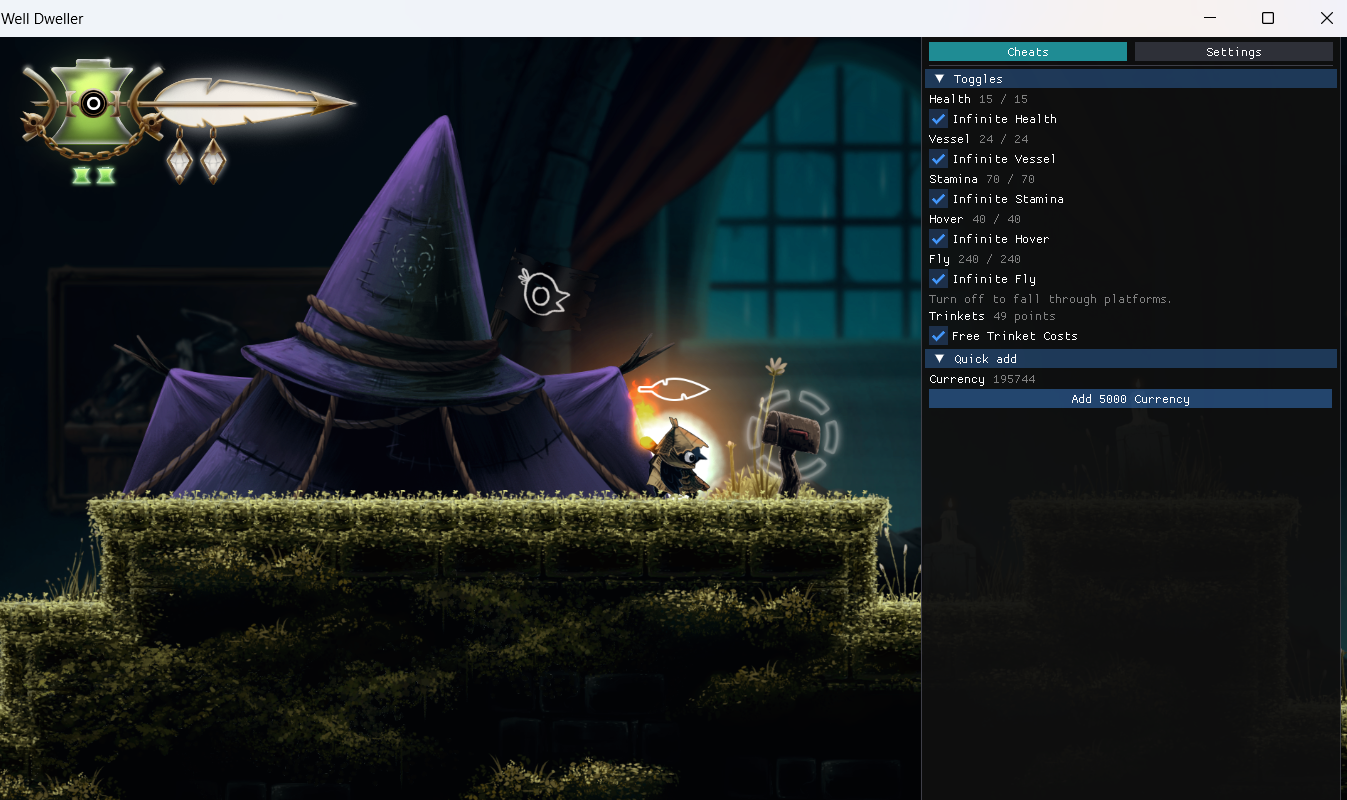
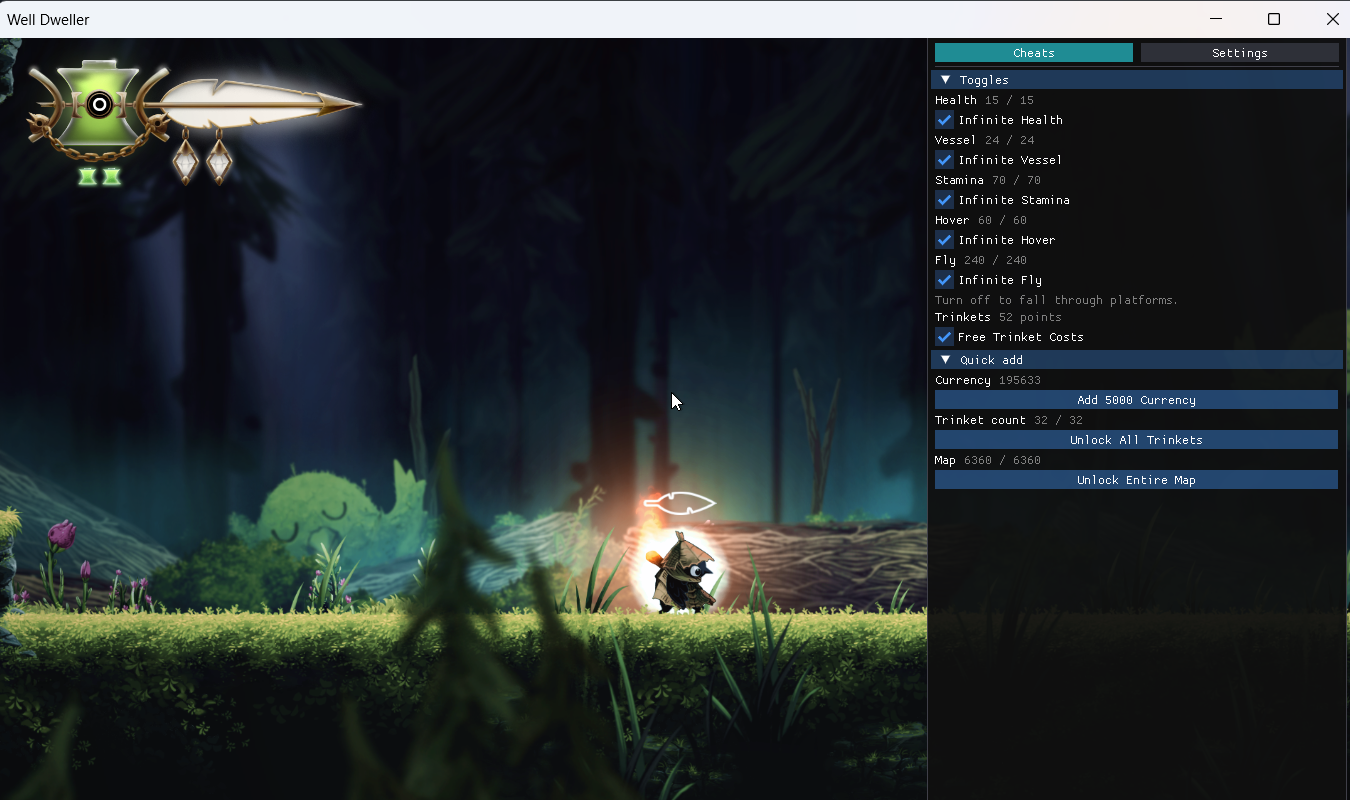
unlock all trinkets and unlock full map

diff --git a/source/ModuleMain.cpp b/source/ModuleMain.cpp
@@ -16,6 +16,7 @@
 
 #include <cstdio>
 #include <cstring>
+#include <string>
 #include <vector>
 
 extern IMGUI_IMPL_API LRESULT ImGui_ImplWin32_WndProcHandler(HWND hwnd, UINT msg, WPARAM wparam, LPARAM lparam);
@@ -130,6 +131,8 @@ static bool g_ConfigWritable = true;
 static int g_FlyBindKind = 0;
 static int g_FlyBindCode = 0;
 static bool g_FlyBindListening = false;
+static bool g_ConfirmUnlock = false;
+static bool g_ConfirmMap = false;
 
 static bool ConfigPath(wchar_t* path, size_t count)
 {
@@ -559,6 +562,182 @@ static void AddCurrency(double amount)
 	WriteGlobalReal("currency", current + amount);
 }
 
+// Owned trinkets are upgrade_list_binary. 0 is missing. 1 and up is the
+// upgrade level, so a found trinket stays at whatever level it already has.
+static bool TrinketProgress(size_t& owned, size_t& total)
+{
+	owned = 0;
+	total = 0;
+	if (g_ModuleInterface == nullptr)
+		return false;
+	RValue list = g_ModuleInterface->CallBuiltin("variable_global_get", { RValue("upgrade_list_binary") });
+	if (list.m_Kind != VALUE_ARRAY)
+		return false;
+	if (!AurieSuccess(g_ModuleInterface->GetArraySize(list, total)))
+		return false;
+	for (size_t index = 0; index < total; ++index)
+	{
+		RValue* entry = nullptr;
+		if (!AurieSuccess(g_ModuleInterface->GetArrayEntry(list, index, entry)) || !IsNumber(entry))
+			continue;
+		if (NumberOf(entry) > 0.0)
+			++owned;
+	}
+	return true;
+}
+
+static void UnlockTrinkets()
+{
+	if (g_ModuleInterface == nullptr)
+		return;
+	RValue list = g_ModuleInterface->CallBuiltin("variable_global_get", { RValue("upgrade_list_binary") });
+	if (list.m_Kind != VALUE_ARRAY)
+		return;
+	size_t size = 0;
+	if (!AurieSuccess(g_ModuleInterface->GetArraySize(list, size)))
+		return;
+	for (size_t index = 0; index < size; ++index)
+	{
+		RValue* entry = nullptr;
+		if (!AurieSuccess(g_ModuleInterface->GetArrayEntry(list, index, entry)) || !IsNumber(entry))
+			continue;
+		if (NumberOf(entry) <= 0.0)
+			SetNumber(entry, 1.0);
+	}
+}
+
+// The open map draws o_Map_Draw.map_array. Entering a room sets that cell to 2.
+static bool MapSystem(RValue& out)
+{
+	if (g_ModuleInterface == nullptr)
+		return false;
+	out = g_ModuleInterface->CallBuiltin("variable_global_get", { RValue("map_system") });
+	if (out.m_Kind != VALUE_REF)
+		return false;
+	const RValue exists = g_ModuleInterface->CallBuiltin("ds_exists", { out, RValue(1.0) });
+	return exists.m_Kind != VALUE_UNSET && exists.m_Kind != VALUE_UNDEFINED && exists.ToBoolean();
+}
+
+static bool FindMapDraw(double& out)
+{
+	if (g_ModuleInterface == nullptr)
+		return false;
+	static double objectIndex = -1.0;
+	if (objectIndex < 0.0)
+	{
+		const RValue index = g_ModuleInterface->CallBuiltin("asset_get_index", { RValue("o_Map_Draw") });
+		if (index.m_Kind == VALUE_UNSET || index.ToDouble() < 0.0)
+			return false;
+		objectIndex = index.ToDouble();
+	}
+	const RValue found = g_ModuleInterface->CallBuiltin("instance_find", { RValue(objectIndex), RValue(0.0) });
+	if (found.m_Kind == VALUE_UNSET || found.ToInt32() < 0)
+		return false;
+	out = found.ToDouble();
+	return true;
+}
+
+// Entering a room changes that cell from 1 to 2. 1 is the fog still on the map.
+static void RevealGrid(RValue& grid, int depth)
+{
+	if (g_ModuleInterface == nullptr || grid.m_Kind != VALUE_ARRAY || depth > 2)
+		return;
+	size_t size = 0;
+	if (!AurieSuccess(g_ModuleInterface->GetArraySize(grid, size)))
+		return;
+	for (size_t index = 0; index < size; ++index)
+	{
+		RValue* entry = nullptr;
+		if (!AurieSuccess(g_ModuleInterface->GetArrayEntry(grid, index, entry)) || entry == nullptr)
+			continue;
+		if (entry->m_Kind == VALUE_ARRAY)
+			RevealGrid(*entry, depth + 1);
+		else if (IsNumber(entry) && NumberOf(entry) == 1.0)
+			SetNumber(entry, 2.0);
+	}
+}
+
+static void CountGrid(RValue& grid, int depth, size_t& revealed, size_t& total)
+{
+	if (g_ModuleInterface == nullptr || grid.m_Kind != VALUE_ARRAY || depth > 2)
+		return;
+	size_t size = 0;
+	if (!AurieSuccess(g_ModuleInterface->GetArraySize(grid, size)))
+		return;
+	for (size_t index = 0; index < size; ++index)
+	{
+		RValue* entry = nullptr;
+		if (!AurieSuccess(g_ModuleInterface->GetArrayEntry(grid, index, entry)) || entry == nullptr)
+			continue;
+		if (entry->m_Kind == VALUE_ARRAY)
+			CountGrid(*entry, depth + 1, revealed, total);
+		else if (IsNumber(entry))
+		{
+			const double number = NumberOf(entry);
+			if (number == 1.0 || number == 2.0)
+				++total;
+			if (number == 2.0)
+				++revealed;
+		}
+	}
+}
+
+static std::string RevealedString(const char* text)
+{
+	std::string copy = text != nullptr ? text : "";
+	for (char& cell : copy)
+	{
+		if (cell == '1')
+			cell = '2';
+	}
+	return copy;
+}
+
+static bool MapProgress(size_t& revealed, size_t& total)
+{
+	revealed = 0;
+	total = 0;
+	RValue system;
+	if (!MapSystem(system))
+		return false;
+	RValue grid = g_ModuleInterface->CallBuiltin("ds_map_find_value", { system, RValue("map_array") });
+	CountGrid(grid, 0, revealed, total);
+	return total > 0;
+}
+
+static void UnlockMap()
+{
+	RValue system;
+	if (!MapSystem(system))
+		return;
+	RValue map = g_ModuleInterface->CallBuiltin("ds_map_find_value", { system, RValue("map") });
+	if (map.m_Kind == VALUE_STRING && map.ToCString() != nullptr)
+	{
+		const std::string text = RevealedString(map.ToCString());
+		g_ModuleInterface->CallBuiltin("ds_map_replace", { system, RValue("map"), RValue(text.c_str()) });
+	}
+	RValue grid = g_ModuleInterface->CallBuiltin("ds_map_find_value", { system, RValue("map_array") });
+	RevealGrid(grid, 0);
+
+	double draw = -1.0;
+	if (!FindMapDraw(draw))
+		return;
+	const RValue id(draw);
+	RValue liveGrid = g_ModuleInterface->CallBuiltin("variable_instance_get", { id, RValue("map_array") });
+	RevealGrid(liveGrid, 0);
+	RValue liveCopy = g_ModuleInterface->CallBuiltin("variable_instance_get", { id, RValue("array_var") });
+	RevealGrid(liveCopy, 0);
+	RValue liveString = g_ModuleInterface->CallBuiltin("variable_instance_get", { id, RValue("map_string") });
+	if (liveString.m_Kind == VALUE_STRING && liveString.ToCString() != nullptr)
+	{
+		const std::string text = RevealedString(liveString.ToCString());
+		g_ModuleInterface->CallBuiltin(
+			"variable_instance_set",
+			{ id, RValue("map_string"), RValue(text.c_str()) });
+	}
+	g_ModuleInterface->CallBuiltin("variable_instance_set", { id, RValue("redraw"), RValue(1.0) });
+}
+
 static void FlyBindLabel(char* out, size_t count)
 {
 	if (g_FlyBindKind != 1)
@@ -654,7 +833,14 @@ static void DrawMenu()
 	const bool focused = GameHasFocus();
 	const bool down = tilde || insert;
 	if (down && !wasDown && focused)
+	{
 		g_MenuOpen = !g_MenuOpen;
+		if (!g_MenuOpen)
+		{
+			g_ConfirmUnlock = false;
+			g_ConfirmMap = false;
+		}
+	}
 	wasDown = down;
 	PollFlyBind(focused);
 
@@ -832,6 +1018,83 @@ static void DrawMenu()
 				ImGui::TextDisabled("waiting");
 			if (ImGui::Button("Add 5000 Currency##cheat", ImVec2(-1.0f, 0.0f)) && haveCurrency)
 				AddCurrency(5000.0);
+
+			size_t ownedTrinkets = 0;
+			size_t totalTrinkets = 0;
+			const bool haveTrinkets = TrinketProgress(ownedTrinkets, totalTrinkets);
+			ImGui::TextUnformatted("Trinket count");
+			ImGui::SameLine();
+			if (haveTrinkets)
+				ImGui::TextDisabled("%zu / %zu", ownedTrinkets, totalTrinkets);
+			else
+				ImGui::TextDisabled("waiting");
+			if (ImGui::Button("Unlock All Trinkets##cheat", ImVec2(-1.0f, 0.0f)) && haveTrinkets)
+				g_ConfirmUnlock = true;
+			if (g_ConfirmUnlock)
+				ImGui::OpenPopup("Unlock all trinkets?##modal");
+			ImVec2 center(io.DisplaySize.x * 0.5f, io.DisplaySize.y * 0.5f);
+			ImGui::SetNextWindowPos(center, ImGuiCond_Appearing, ImVec2(0.5f, 0.5f));
+			if (ImGui::BeginPopupModal("Unlock all trinkets?##modal", nullptr, ImGuiWindowFlags_AlwaysAutoResize | ImGuiWindowFlags_NoMove))
+			{
+				ImGui::TextUnformatted("Mark every missing trinket as found?");
+				ImGui::TextDisabled("This is written into your save.");
+				ImGui::Spacing();
+				if (ImGui::IsWindowAppearing())
+					ImGui::SetKeyboardFocusHere();
+				if (ImGui::Button("Cancel##unlock", ImVec2(120.0f, 0.0f)) || ImGui::IsKeyPressed(ImGuiKey_Escape))
+				{
+					g_ConfirmUnlock = false;
+					ImGui::CloseCurrentPopup();
+				}
+				ImGui::SameLine();
+				ImGui::PushStyleColor(ImGuiCol_Button, accent);
+				if (ImGui::Button("Unlock##unlock", ImVec2(120.0f, 0.0f)))
+				{
+					UnlockTrinkets();
+					g_ConfirmUnlock = false;
+					ImGui::CloseCurrentPopup();
+				}
+				ImGui::PopStyleColor();
+				ImGui::EndPopup();
+			}
+
+			size_t revealedMap = 0;
+			size_t mapCells = 0;
+			const bool haveMap = MapProgress(revealedMap, mapCells);
+			ImGui::TextUnformatted("Map");
+			ImGui::SameLine();
+			if (haveMap)
+				ImGui::TextDisabled("%zu / %zu", revealedMap, mapCells);
+			else
+				ImGui::TextDisabled("waiting");
+			if (ImGui::Button("Unlock Entire Map##cheat", ImVec2(-1.0f, 0.0f)) && haveMap)
+				g_ConfirmMap = true;
+			if (g_ConfirmMap)
+				ImGui::OpenPopup("Unlock the whole map?##modal");
+			ImGui::SetNextWindowPos(center, ImGuiCond_Appearing, ImVec2(0.5f, 0.5f));
+			if (ImGui::BeginPopupModal("Unlock the whole map?##modal", nullptr, ImGuiWindowFlags_AlwaysAutoResize | ImGuiWindowFlags_NoMove))
+			{
+				ImGui::TextUnformatted("Remove fog from the whole map?");
+				ImGui::TextDisabled("Have the map open. Save in game to keep it.");
+				ImGui::Spacing();
+				if (ImGui::IsWindowAppearing())
+					ImGui::SetKeyboardFocusHere();
+				if (ImGui::Button("Cancel##map", ImVec2(120.0f, 0.0f)) || ImGui::IsKeyPressed(ImGuiKey_Escape))
+				{
+					g_ConfirmMap = false;
+					ImGui::CloseCurrentPopup();
+				}
+				ImGui::SameLine();
+				ImGui::PushStyleColor(ImGuiCol_Button, accent);
+				if (ImGui::Button("Unlock##map", ImVec2(120.0f, 0.0f)))
+				{
+					UnlockMap();
+					g_ConfirmMap = false;
+					ImGui::CloseCurrentPopup();
+				}
+				ImGui::PopStyleColor();
+				ImGui::EndPopup();
+			}
 		}
 	}
 	else if (ImGui::CollapsingHeader("Window##section", ImGuiTreeNodeFlags_DefaultOpen))

diff --git a/README.md b/README.md
@@ -4,7 +4,7 @@
 
 A small menu for the Windows Steam version of Well Dweller. Press Insert or ~ while the game window is in front. The menu sits on the right.
 
-It is meant for playing on hard without the stops: health, stamina, hover, bubble fly, the vessel throw, shop currency, and trinket equip costs.
+It is meant for playing on hard without the stops: health, stamina, hover, bubble fly, the vessel throw, shop currency, trinket equip costs, all trinkets, and map fog.
 
 ## Cheats
 
@@ -15,10 +15,12 @@ It is meant for playing on hard without the stops: health, stamina, hover, bubbl
 - **Infinite Vessel.** The flaming vessel meter stays full.
 - **Free Trinket Costs.** Trinkets you have already found cost 0 points to equip. You still find them yourself. Turn it off to get the normal costs back.
 - **Add 5000 Currency.** Adds 5000 of the white-diamond shop currency.
+- **Unlock All Trinkets.** Asks you to confirm. Unlocks every missing trinket. Trinkets you already upgraded stay at that level.
+- **Unlock Entire Map.** Asks you to confirm. Open the map first. Fogged rooms are marked explored, and rooms you have already explored stay as they are. Save in the game if you want it to stay after you leave.
 
 Toggles are saved in `well-mod/config.json`, next to `WellDweller.exe`. That file appears the first time you change a toggle. It is local and is not part of this repo.
 
-This does not unlock trinkets you have not found, and it does not raise your maximum health.
+It does not raise your maximum health. Free Trinket Costs does not find trinkets for you. Unlock All Trinkets does, and it asks first.
 
 ## Install
 
